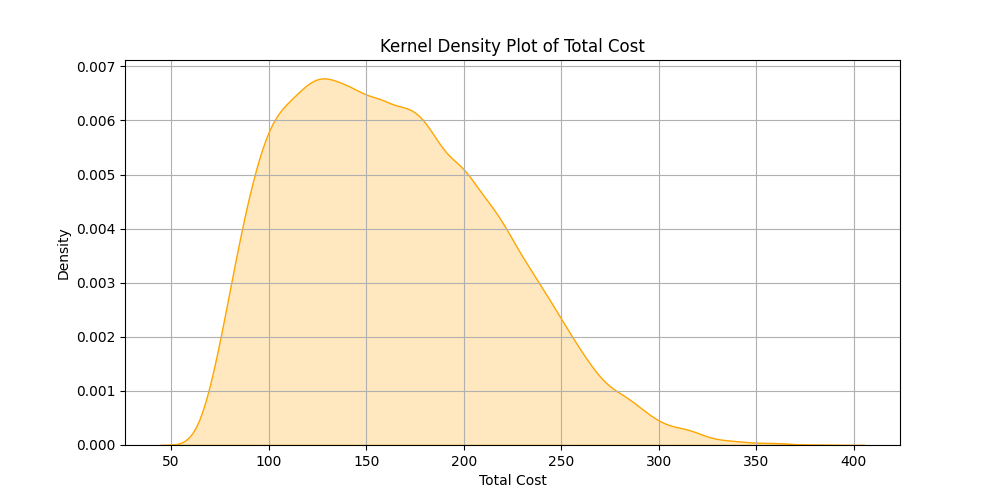
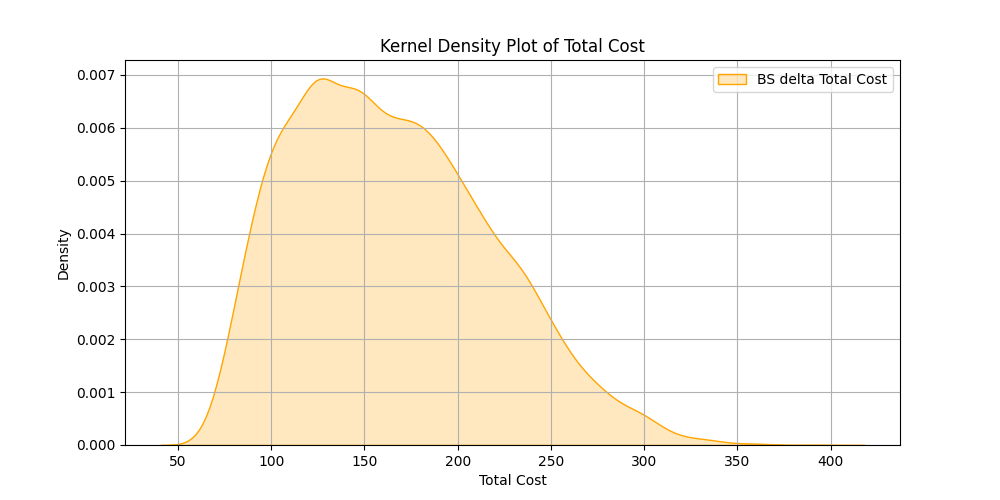
3 month daily using sigma=0.2 mu =0.05

diff --git a/drl.py b/drl.py
@@ -3,6 +3,7 @@ import gym
 import numpy as np
 import pandas as pd
 import matplotlib.pyplot as plt
+import seaborn as sns
 
 # put things common to different algorithms here
 class DRL:
@@ -12,21 +13,52 @@ class DRL:
 
         if not os.path.exists('history'):
             os.mkdir('history')
-
+    
+    
+        
     def test(self, total_episode, delta_flag=False, bartlett_flag=False):
         """hedge with model.
         """
         print('testing...')
 
-        self.epsilon = -1
+        def cost(delta_h, multiplier):
+            TickSize = 0.1
+            return multiplier * TickSize * (np.abs(delta_h) + 0.01 * delta_h**2)
+        
+        def student_t_statistic(data):
+            n = len(data)
+            sample_mean = np.mean(data)
+            sample_std = np.std(data, ddof=1)
+            t_statistic = sample_mean / (sample_std / np.sqrt(n))
+            return t_statistic
 
-        w_T_store = []
+
+        def get_total_pnl_function(asset_price_path, option_price_path, action_path):
+            total_pnl_path= []
+            num_steps = len(action_path)
+            for t in range(1, num_steps):
+                option_value_t = 100*(option_price_path[t] - option_price_path[t-1])
+                hedge_value_t = action_path[t-1]* (asset_price_path[t] - asset_price_path[t-1])
+                cost_t = cost(action_path[t]-action_path[t-1], 5)
+                total_pnl_t= option_value_t - hedge_value_t - cost_t
+                total_pnl_path.append(total_pnl_t)
+
+            total_pnl = np.sum(total_pnl_path)
+            total_pnl_vol = np.std(total_pnl_path)
+            total_pnl_studentT = student_t_statistic(total_pnl_path)
+
+            return total_pnl, total_pnl_vol, total_pnl_studentT
+
+        self.epsilon = -1
+        reinf_actions = []
+
+        
 
         for i in range(total_episode):
             observation = self.env.reset()
             done = False
             action_store = []
-            reward_store = []
+            
 
             while not done:
 
@@ -43,28 +75,90 @@ class DRL:
 
                 # store action to take a look
                 action_store.append(action)
-
-                # a step
                 observation, reward, done, info = self.env.step(action)
-                reward_store.append(reward)
+            
+            reinf_actions.append(action_store)
+            
+        #Calculating Total Cost of Hedging
+        option_delta_scaled = self.env.delta_path* 100
+        option_delta_scaled = np.insert(option_delta_scaled, 0, 0, axis=1)
+        # Calculate the change in delta
+        bs_delta_change = np.diff(option_delta_scaled, axis=1)
+        bs_cost_path = cost(bs_delta_change, 5)
+        bs_total_cost = np.sum(bs_cost_path, axis=1)
 
-            # get final wealth at the end of episode, and store it.
-            w_T = sum(reward_store)
-            w_T_store.append(w_T)
+        reinf_actions = np.insert(reinf_actions, 0, 0, axis=1)
+        reinf_delta_change = np.diff(reinf_actions, axis=1)
+        reinf_cost_path = cost(reinf_delta_change, 5)
+        reinf_total_cost = np.sum(reinf_cost_path, axis=1)
 
-            if i % 1000 == 0:
-                w_T_mean = np.mean(w_T_store)
-                w_T_var = np.var(w_T_store)
-                path_row = info["path_row"]
-                print(info)
-                with np.printoptions(precision=2, suppress=True):
-                    print("episode: {} | final wealth: {:.2f}; so far mean and variance of final wealth was {} and {}".format(i, w_T, w_T_mean, w_T_var))
-                    print("episode: {} | so far Y(0): {:.2f}".format(i, -w_T_mean + self.ra_c * np.sqrt(w_T_var)))
-                    print("episode: {} | rewards: {}".format(i, np.array(reward_store)))
-                    print("episode: {} | action taken: {}".format(i, np.array(action_store)))
-                    print("episode: {} | deltas {}".format(i, self.env.delta_path[path_row] * 100))
-                    print("episode: {} | stock price {}".format(i, self.env.path[path_row]))
-                    print("episode: {} | option price {}\n".format(i, self.env.option_price_path[path_row] * 100))
+        #calculate the total pnl delta 
+        bs_total_pnl = []
+        reinf_total_pnl = []
+
+        bs_total_pnl_vol = []
+        reinf_total_pnl_vol = []
+        
+        bs_total_pnl_studentT = []
+        reinf_total_pnl_studentT= []
+
+        self.env.path = np.insert(self.env.path, 0, 0, axis=1)
+        self.env.option_price_path = np.insert(self.env.option_price_path, 0, 0, axis=1)
+
+        for i in range(total_episode):
+            bs_total_pnl.append(get_total_pnl_function(self.env.path[i, :], self.env.option_price_path[i, :], option_delta_scaled[i,:])[0])
+            reinf_total_pnl.append(get_total_pnl_function(self.env.path[i, :], self.env.option_price_path[i,:], reinf_actions[i,:])[0])
+           
+            bs_total_pnl_vol.append(get_total_pnl_function(self.env.path[i, :], self.env.option_price_path[i, :], option_delta_scaled[i,:])[1])
+            reinf_total_pnl_vol.append(get_total_pnl_function(self.env.path[i, :], self.env.option_price_path[i,:], reinf_actions[i,:])[1])
+            
+            bs_total_pnl_studentT.append(get_total_pnl_function(self.env.path[i, :], self.env.option_price_path[i, :], option_delta_scaled[i,:])[2])
+            reinf_total_pnl_studentT.append(get_total_pnl_function(self.env.path[i, :], self.env.option_price_path[i,:], reinf_actions[i,:])[2])
+
+    
+        
+        
+
+        
+        # Kernel density plot showing the total cost of delta hedging
+        plt.figure(figsize=(10, 5))
+        sns.kdeplot(bs_total_cost, shade=True, label='BS delta Total Cost', color = "orange")
+        # sns.kdeplot(reinf_total_cost, shade=True, label='Reinforcement Learning Total Cost',
+        #             color = "blue")
+        plt.xlabel("Total Cost")
+        plt.ylabel("Density")
+        plt.title('Kernel Density Plot of Total Cost')
+        plt.legend()
+        plt.grid(True)
+        plt.savefig("Total_Cost_kde_plot.png")
+        plt.show()
+
+        # Kernel density plot showing the total cost of delta hedging
+        plt.figure(figsize=(10, 5))
+        sns.kdeplot(bs_total_pnl_vol, shade=True, label='BS delta Total PnL Volatility', color = "orange")
+        # sns.kdeplot(reinf_total_pnl_vol, shade=True, label='Reinforcement Learning Total PnL Volatility ',
+        #             color = "blue")
+        plt.xlabel("Total PnL Volatility")
+        plt.ylabel("Density")
+        plt.title('Kernel Density Plot of Total PnL Volatility')
+        plt.legend()
+        plt.grid(True)
+        plt.savefig("Kernel_Density_Plot_of_Total_PnL_Volatility.png")
+        plt.show()
+
+        # Kernel density plot showing =the student T statistic of the total PnL
+        plt.figure(figsize=(10, 5))
+        sns.kdeplot(bs_total_pnl_studentT, shade=True, label='BS delta Total PnL Volatility', color = "orange")
+        # sns.kdeplot(reinf_total_pnl_vol, shade=True, label='Reinforcement Learning Total PnL Volatility ',
+        #             color = "blue")
+        plt.xlabel("Studennt t statistic Total PnL")
+        plt.ylabel("Density")
+        plt.title('Kernel Density Plot of Student T statistic Total PnL')
+        plt.legend()
+        plt.grid(True)
+        plt.savefig("Kernel_Density_Plot_of_StudentT_Total PnL_plot.png")
+        plt.show()
+    
 
     def plot(self):
         print("Ploting out of sample simulation")
@@ -90,6 +184,7 @@ class DRL:
         plt.ylabel("Values")
         plt.title("Out of Sample Simulation ")
         plt.legend()
+        plt.savefig("Out_of_Sample_Simulation.png")
         plt.show()
 
 

diff --git a/ddpg_test.py b/ddpg_test.py
@@ -16,7 +16,7 @@ if __name__ == "__main__":
     tag = "6"
     
      # set init_ttm, spread, and other parameters according to the env that the model is trained
-    env_test = TradingEnv(continuous_action_flag=True, sabr_flag=False, dg_random_seed=None, spread=0.01, num_contract=1, init_ttm=90, trade_freq=1, num_sim=100001)
+    env_test = TradingEnv(continuous_action_flag=True, sabr_flag=False, dg_random_seed=None, spread=0.01, num_contract=1, init_ttm=90, trade_freq=1, num_sim=10000)
     ddpg_test = DDPG(env_test)
 
     print("\n\n***")
@@ -30,7 +30,7 @@ if __name__ == "__main__":
             print("Testing model saved at " + tag + "K episode.")
         ddpg_test.load(tag=tag)
 
-    # ddpg_test.test(10000, delta_flag=delta_action_test, bartlett_flag=bartlett_action_test)
+    ddpg_test.test(10000, delta_flag=delta_action_test, bartlett_flag=bartlett_action_test)
 
     # for i in range(1, 51):
     #     tag = str(i)
